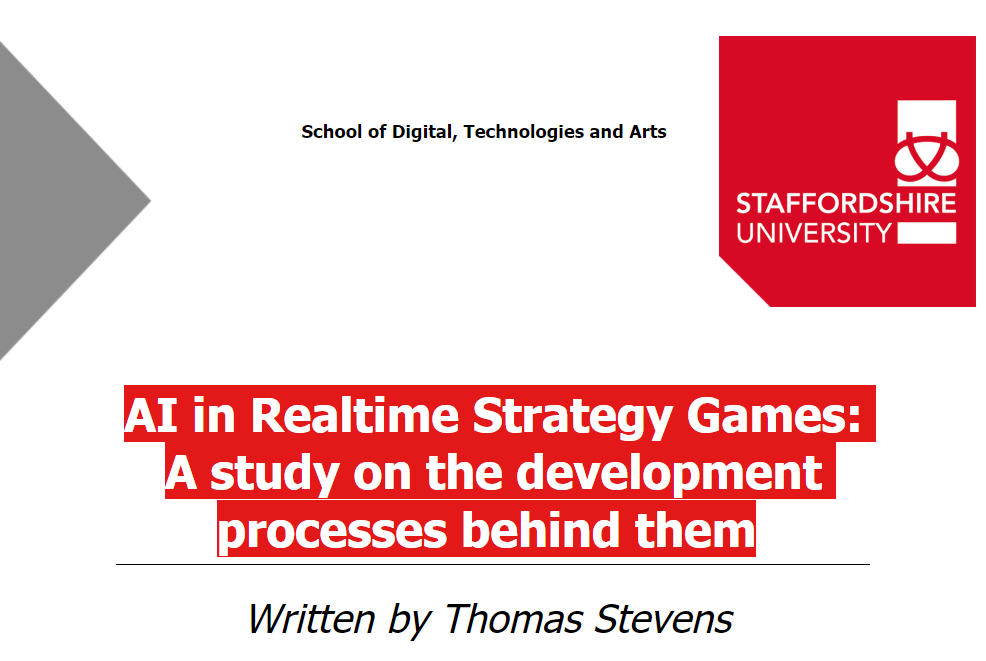
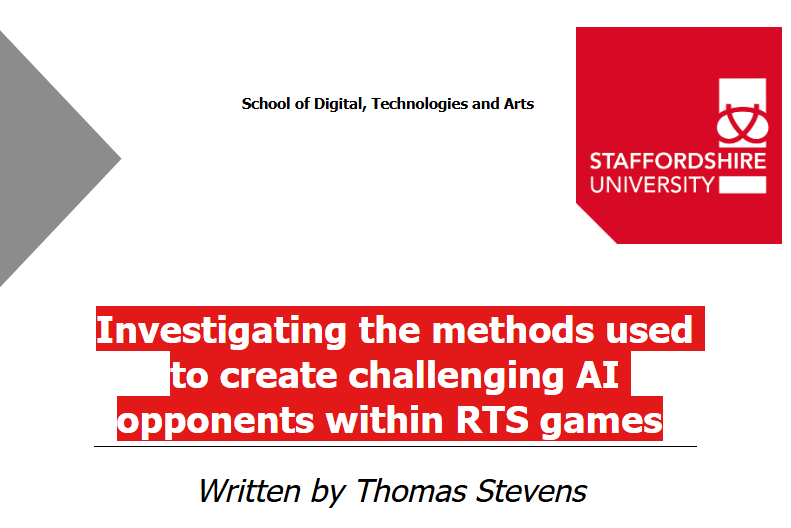
Dissertation Image Update

diff --git a/projects/dissertation/index.html b/projects/dissertation/index.html
@@ -34,10 +34,7 @@
 
 
                 <h2>Abstract</h2>
-                <p>The AI opponents in real-time strategy aim to offer a challenge to human players when playing a match of an RTS game, however in most titles, even at the harder difficulties the AI still plays the same, they just tend to have a larger fighting force compared to the player. Resulting in the match feeling harder for the player, but not more challenging as they can use the same tactics as before.</p>
-                <p>Therefore, paper intends to investigate the development processes utilised by the games industry and researchers respectively, to develop AI opponents that try to create a challenging game state for the human players they are pitted against.</p>
-				<p>An RTS prototype will be developed in the Unreal 5 games engine, featuring a basic AI system to control the enemy faction a human player will play against. Four different techniques used by researchers and the games industry will then be injected into the AI’s code, or into the game mode itself. These techniques will then be tested by getting participants to play a match against each of the different AI opponents, after each match they will fill in a questionnaire answering whether they beat the AI and how difficult they were. These results will then be used to judge if the technique used is an effective way of creating a more challenging AI opponent.</p>
-				
+                <p>Realtime strategy (RTS) games are a sub-genre of strategy games which are characterised by the fact that all decisions and movements happen in real-time, unlike their turn-based counterparts. Calculating many decisions at runtime however can make it difficult to engineer challenging AI. Therefore, this paper investigated the different techniques and development processes used by the games industry and academia, to determine which ones are the most optimal for creating more challenging AI opponents within RTS games. These methods were tested in a brand new RTS framework developed in Unreal Engine 5, utilising C++ for greater performance. This framework included both the core mechanics of an RTS game, but also a basic AI structured according to practices researched in the literature of this field. The methods researched were then implemented into the decision-making process of this basic AI. These were then tested against human participants to see from both data collected on match statistics, as well as participant opinion, on whether or not the AI they played was challenging. This paper found that methods such as dynamic difficulty scaling and the Lanchester combat prediction algorithm were deemed more challenging by participants and supporting data, rather than methods like allowing the AI to cheat.</p>
 				<h2>Current Project Progress</h2>
                 <p>As of the end of December, the literature review and research methodology sections of the dissertation are completed. The core mechanics of the prototype are finished, the only development left to complete is developing the AI system itself.</p>
             </div>
@@ -47,7 +44,7 @@
                 <ul>
                 <li><img class="projectimage" src="../../assets/university/dissertation.png" alt="Project Image"></li>
                 <li><iframe class="video" width="620px" height="320px" style="padding: 10px;" frameBorder="0"
-					src="https://www.youtube.com/embed/9COYcZH2DSw">
+					src="https://www.youtube.com/embed/_jmNUaSDjQM">
 				</iframe></li> 
                 <!-- <li><iframe class="video" width="620px" height="320px" style="padding: 10px;" frameBorder="0" -->
 					<!-- src="https://www.youtube.com/embed/yQMWXz8LJ98"> -->
